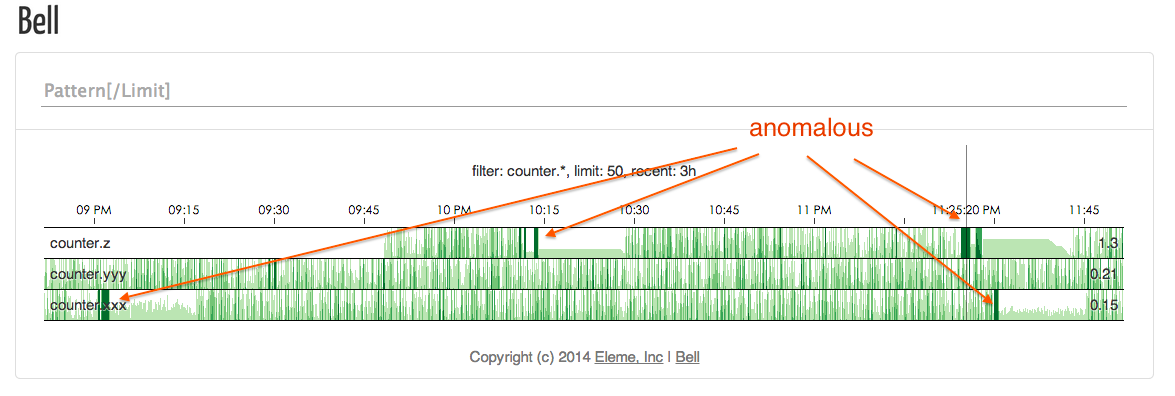
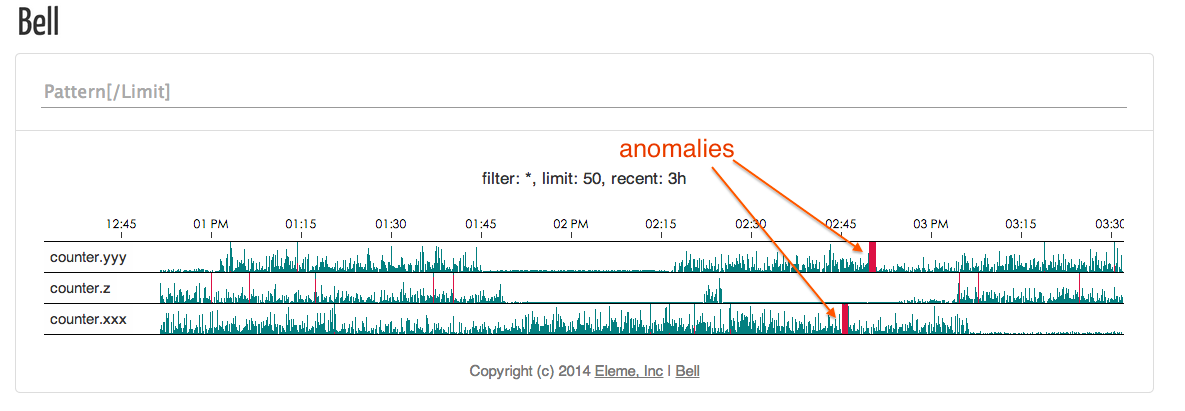
v0.0.9, final colors

diff --git a/static/js/script.js b/static/js/script.js
@@ -79,8 +79,7 @@ function init(pattern, limit, apiPrefix) {
         .call(
           context.horizon()
           .extent([0, 2])
-          .colors(["black", "black", "black", "black", "black", "black", "black", "black",
-          "#eee", "#ccc", "#aaa", "#888", "#666", "#444", "#222", "#000"])
+          .colors(['black', 'black', 'teal', '#dd1144'])
         );
 
         div.append("div")

diff --git a/bell.js b/bell.js
@@ -46,7 +46,7 @@ var co = require('co')
 
 co(function *(){
   program
-  .version('0.0.7')
+  .version('0.0.9')
   .usage('<service> [options]')
   .option('-c, --configs-path <c>', 'configs file path')
   .option('-s, --sample-configs', 'generate sample configs file')

diff --git a/README.md b/README.md
@@ -7,7 +7,7 @@ for periodic time series.
 ![](https://github.com/eleme/node-bell/raw/master/snap.png)
 
 
-Latest version: v0.0.7
+Latest version: v0.0.9
 
 Requirements
 ------------
